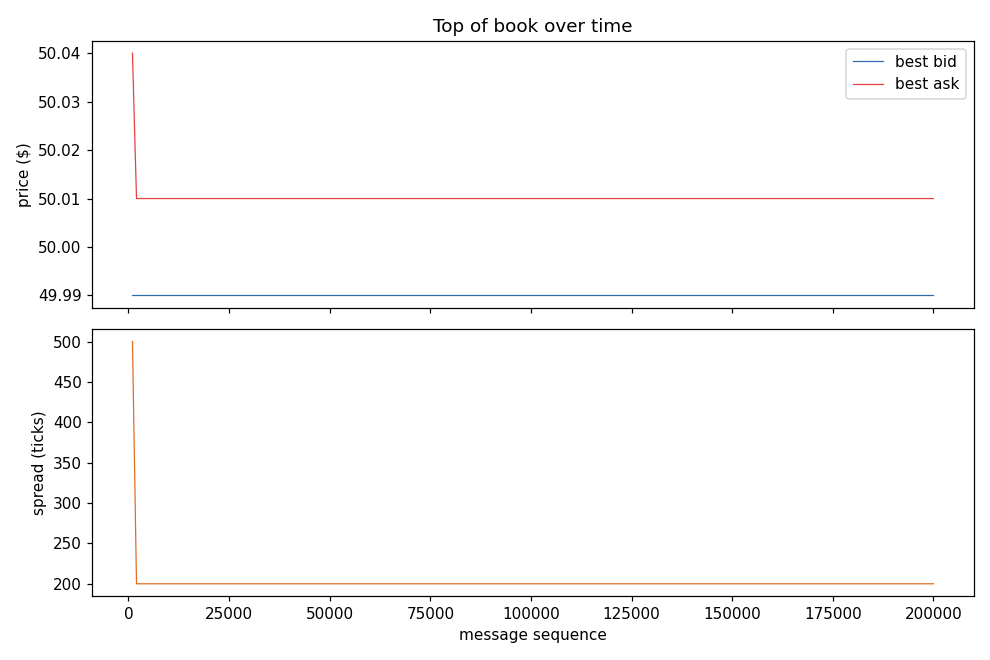
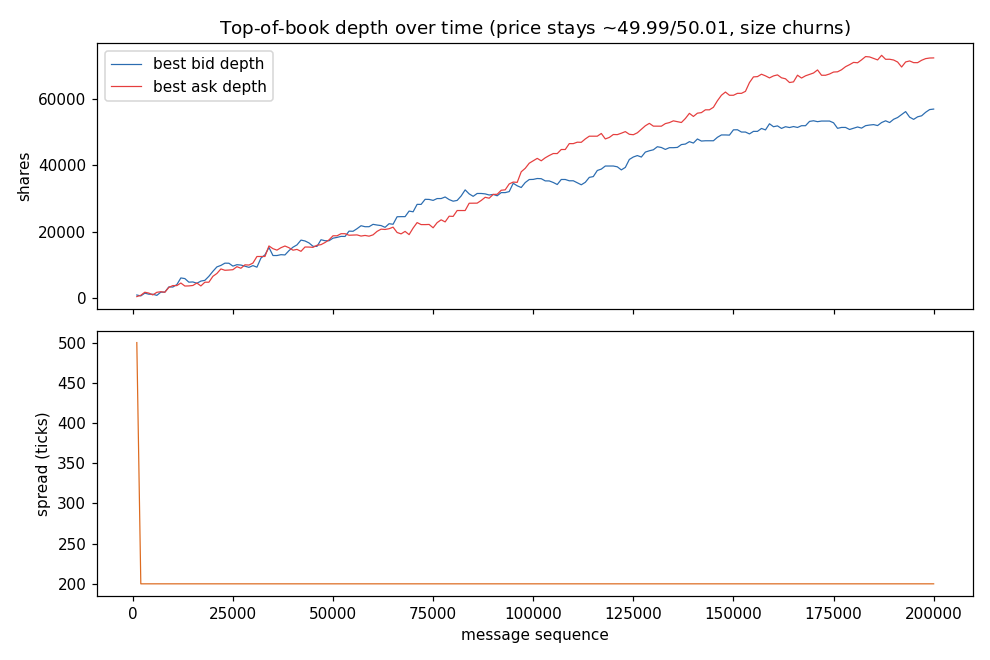
add tooling notes, fix book_depth plot, explain the sw/hw latency gap honestly
TOOLING.md covers the real build toolchain and AI-assisted tooling, with
the two real RTL bugs (tombstone deletion, best-tracker scan race) as the
concrete evidence rather than a bare disclaimer. README gets a TOC and a
Tooling section.

book_depth.png was plotting best bid/ask price, which is flat for the
whole session because the synthetic feed's reference mid doesn't drift,
so the chart looked broken. Replotted as top-of-book depth (shares),
which is what actually moves in this data, with a README note explaining
the distinction.

Also rewrote the software-vs-hardware latency comparison: software's
median is faster than the modeled 344ns hardware number, and that's a
real result with concrete causes (clock speed mismatch, byte-serial
front end, unsynthesized clock target), not something to wave away as
"determinism." What hardware actually buys is p99.9 == p50, not a lower
mean.

General prose pass: dropped em dashes throughout.

diff --git a/analysis/book_depth.py b/analysis/book_depth.py
@@ -1,10 +1,13 @@
 #!/usr/bin/env python3
-"""book_depth.py — visualise top-of-book over time.
+"""book_depth.py — visualise top-of-book depth over time.
 
 Reads book_depth.csv (seq, locate, best_bid, bid_depth, best_ask, ask_depth,
-spread) emitted by orderbook_sw and plots best bid/ask and spread versus message
-sequence for the primary symbol. Prints summary stats and writes a CSV summary
-when matplotlib is unavailable.
+spread) emitted by orderbook_sw and plots best-level share depth and spread
+versus message sequence for the primary symbol. Depth is the field that
+actually moves in the synthetic feed (the generator keeps its reference mid
+fixed, so best_bid/best_ask themselves are close to flat; the resting size at
+the top of book is what churns as orders arrive and get consumed). Prints
+summary stats and writes a CSV summary when matplotlib is unavailable.
 """
 import csv, os, sys, argparse
 
@@ -18,13 +21,15 @@ def main():
         print(f"[book_depth] {path} not found; run orderbook_sw --csv {args.csv}")
         return 0
 
-    seq, bid, ask, spread = [], [], [], []
+    seq, bid, ask, bid_depth, ask_depth, spread = [], [], [], [], [], []
     with open(path) as f:
         for row in csv.DictReader(f):
             try:
                 seq.append(int(row["seq"]))
                 bid.append(int(row["best_bid"]) / 10000.0)
                 ask.append(int(row["best_ask"]) / 10000.0)
+                bid_depth.append(int(row["bid_depth"]))
+                ask_depth.append(int(row["ask_depth"]))
                 spread.append(int(row["spread"]))
             except (KeyError, ValueError):
                 pass
@@ -37,6 +42,8 @@ def main():
     print(f"[book_depth] {len(seq)} snapshots")
     print(f"  bid range:    ${min(bid):.4f} .. ${max(bid):.4f}")
     print(f"  ask range:    ${min(ask):.4f} .. ${max(ask):.4f}")
+    print(f"  bid depth:    {min(bid_depth)} .. {max(bid_depth)} shares")
+    print(f"  ask depth:    {min(ask_depth)} .. {max(ask_depth)} shares")
     print(f"  mean spread:  {avg_spread:.1f} ticks (1 tick = $0.0001)")
 
     try:
@@ -44,9 +51,10 @@ def main():
         matplotlib.use("Agg")
         import matplotlib.pyplot as plt
         fig, (ax1, ax2) = plt.subplots(2, 1, figsize=(9, 6), sharex=True)
-        ax1.plot(seq, bid, color="#2b6cb0", lw=0.8, label="best bid")
-        ax1.plot(seq, ask, color="#e53e3e", lw=0.8, label="best ask")
-        ax1.set_ylabel("price ($)"); ax1.legend(); ax1.set_title("Top of book over time")
+        ax1.plot(seq, bid_depth, color="#2b6cb0", lw=0.8, label="best bid depth")
+        ax1.plot(seq, ask_depth, color="#e53e3e", lw=0.8, label="best ask depth")
+        ax1.set_ylabel("shares"); ax1.legend()
+        ax1.set_title("Top-of-book depth over time (price stays ~$49.99/$50.01, size churns)")
         ax2.plot(seq, spread, color="#dd6b20", lw=0.8)
         ax2.set_ylabel("spread (ticks)"); ax2.set_xlabel("message sequence")
         plt.tight_layout()

diff --git a/docs/DESIGN.md b/docs/DESIGN.md
@@ -7,14 +7,14 @@ Build/run instructions are in [BUILDING.md](BUILDING.md).
 
 An exchange order book is the canonical low-latency problem: a stream of small
 binary messages (adds, cancels, executes, replaces), each of which must update a
-data structure in as little time as possible. HFT firms attack it two ways —
+data structure in as little time as possible. HFT firms attack it two ways:
 aggressively tuned C++ on a CPU, or an FPGA. I wanted to build both against the
 same feed and measure the actual gap, not just repeat the folklore about it.
 
 So there are two implementations of the same book:
 
-- `sw/` — C++17, SIMD everywhere it pays, kernel-bypass-style receiver design
-- `rtl/` — synthesizable SystemVerilog, one byte per clock, everything in SRAM
+- `sw/`: C++17, SIMD everywhere it pays, kernel-bypass-style receiver design
+- `rtl/`: synthesizable SystemVerilog, one byte per clock, everything in SRAM
 
 Both consume the same NASDAQ ITCH 5.0 byte stream and must produce identical
 book state. The RTL is diffed against a `std::map` reference model message by
@@ -23,8 +23,8 @@ message, which is also how both of the real bugs below were caught.
 ## The wire format contract
 
 ITCH 5.0 is a length-prefixed binary format, big-endian everything. The message
-layouts live in exactly one place per language — `sw/parser/itch_messages.hpp`
-and `rtl/ob_pkg.sv` — and the two mirror each other field for field. If they
+layouts live in exactly one place per language (`sw/parser/itch_messages.hpp`
+and `rtl/ob_pkg.sv`), and the two mirror each other field for field. If they
 ever disagree, the end-to-end diff fails immediately, so the contract is
 enforced by test rather than by discipline.
 
@@ -49,7 +49,7 @@ need ref → (price, side, shares) at O(1). Open addressing with linear probing,
 Thomas Wang's mix64 as the hash. Two decisions worth defending:
 
 - *Structure-of-arrays layout.* Keys live in their own contiguous array, so the
-  SIMD probe is one aligned load of 8 (AVX-512) or 4 (AVX2) consecutive keys —
+  SIMD probe is one aligned load of 8 (AVX-512) or 4 (AVX2) consecutive keys,
   no gathers. Values sit in parallel arrays indexed by slot.
 - *Backward-shift deletion* instead of tombstones. On erase, later entries in
   the probe chain shift back to fill the hole. Chains never accumulate dead
@@ -57,7 +57,7 @@ Thomas Wang's mix64 as the hash. Two decisions worth defending:
   differential test against `std::unordered_map` keeps it honest.
 
 **The book** (`sw/book/order_book.hpp`). Price levels are a direct-indexed
-array — price *is* the index — so an update is a load, an add, a store. Best
+array where price *is* the index, so an update is a load, an add, a store. Best
 bid/ask are maintained incrementally; the only expensive case is deleting the
 last shares at the best price, which triggers a vectorized scan toward the next
 non-empty level. `std::map` (the original book, kept as `reference_book.hpp`)
@@ -78,7 +78,7 @@ udp_stripper → itch_framer → itch_decoder → order_ref_table
 ```
 
 One byte per cycle streams through the front end. Byte-swapping costs nothing in
-hardware — you just wire the bytes in the other order. The hash table and price
+hardware, you just wire the bytes in the other order. The hash table and price
 levels are SRAMs; a single book is instantiated (single symbol), and the
 Verilator harness feeds it a single-symbol stream so the reference-model diff is
 exact.
@@ -95,7 +95,7 @@ inserts are allowed to reuse. A test that forces a 24-deep collision chain and
 then deletes out of the middle of it is what caught this.
 
 Tombstones aren't reclaimed in bulk, so an extremely long session would want a
-sweep/rehash eventually — fine at a 64K table for these workloads.
+sweep/rehash eventually, fine at a 64K table for these workloads.
 
 ### Bug 2: the best-tracker handshake race
 
@@ -103,33 +103,64 @@ When a delete empties the best price level, the engine kicks the best tracker to
 scan for the next non-empty level, and waited for `!scanning` to declare the
 message done. But the tracker raises `scanning` one cycle *after* it samples the
 kick. In that window the engine could commit with `best_price` still pointing at
-the just-emptied level — a stale, zero-share best. Classic ready/busy handshake
+the just-emptied level, a stale, zero-share best. Classic ready/busy handshake
 race. The fix (in `book_update_engine.sv`) computes whether a scan is *expected*
 for this message and waits to see it actually start and finish
 (`expect_scan_q` / `scan_seen_q`). `test_book_update` now pins the invariant
 that the best price always has shares.
 
 Both bugs are the kind that only surface when you diff hardware against a
-reference model on thousands of messages — neither showed up in happy-path
+reference model on thousands of messages. Neither showed up in happy-path
 tests.
 
 ## What the comparison actually shows
 
 Software (this machine, AVX2 tier): p50 around 190 ns per message, p99 around
-540 ns, p99.9 around 1.3 µs. The tail is cache misses and OS jitter — nothing
+540 ns, p99.9 around 1.3 µs. The tail is cache misses and OS jitter, nothing
 in the code path varies by 10× on its own.
 
 Hardware: ~86 cycles for an Add, so ~344 ns at the 250 MHz the pipeline is
-modeled at — and it's the *same* number every time. The FPGA story isn't that
-the mean is a bit better; it's that the p99.9 equals the p50. That determinism
-is what firms actually pay for. (Caveat: 250 MHz is a modeled clock, not
-post-place-and-route timing.)
+modeled at, and it's the *same* number every time.
+
+Worth being honest about what's actually being compared here: software's
+*median* (~190 ns) is lower than hardware's number. That's a real result, not
+a bug, and it has three concrete causes, not just "software happened to be
+fast":
+
+1. **Clock speed.** The CPU runs at 4-5 GHz; the pipeline here is modeled at
+   250 MHz, roughly 16-20× slower. A superscalar, out-of-order x86 core is
+   also just very good at hot, predictable, cache-resident integer work
+   (parsing, hashing, array indexing), which is exactly what this hot path is.
+2. **The front end is byte-serial.** `udp_stripper → itch_framer →
+   itch_decoder` accepts one byte per cycle, so a 38-byte Add message spends
+   roughly half of its ~86 total cycles just shifting bytes in before any book
+   logic runs at all. That's a real architectural cost of choosing a simple,
+   easy-to-verify one-byte-wide datapath over a wider parallel ingest path.
+   A design reading 8 or 16 bytes/cycle (realistic off a 100G+ NIC) would cut
+   this component sharply.
+3. **250 MHz is a conservative, unsynthesized target,** not a
+   post-place-and-route ceiling. It was chosen as a number the design would
+   obviously close timing at without backend work. Real FPGA order-book
+   implementations commonly clock past 300-500 MHz; an ASIC would go higher
+   still. Combined with a wider front end, closing most or all of the
+   mean-latency gap is realistic, just not something this project measured.
+
+So the honest framing is: software's best case is genuinely faster than
+hardware's only case, for reasons above, not despite them. What hardware
+actually buys is not a lower mean, it's that the p99.9 *equals* the p50 (no
+cache misses are possible against SRAM with a fixed access latency, no OS
+scheduler, no other processes competing for the core), while software's
+p99.9 is ~7× its own median. That gap matters specifically because a real
+feed's worst moments (bursts, volatility, everyone's software degrading at
+once) are exactly when a fixed, boring latency number becomes a genuine edge
+rather than a nice-to-have. (Caveat, restated: 250 MHz is a modeled clock,
+not post-place-and-route timing.)
 
 ## Limitations
 
 - RTL is single-symbol; the software book handles all symbols. Multi-symbol
   hardware needs per-symbol book banks or a book-state cache.
-- The RTL memories use combinational (async) reads — valid LUTRAM, but a real
+- The RTL memories use combinational (async) reads. Valid LUTRAM, but a real
   FPGA build should re-map them to registered BRAM with an extra pipeline stage.
 - No live UDP test on this machine (no feed, no libxdp); the receiver design
   follows the standard AF_XDP pattern but is exercised only via file replay.

diff --git a/README.md b/README.md
@@ -1,11 +1,21 @@
-# ITCH order book — same feed, C++ and RTL
+# ITCH order book, same feed, C++ and RTL
 
 A NASDAQ ITCH 5.0 limit order book built twice: once as SIMD-tuned C++ chasing
 sub-microsecond software latency, and once as synthesizable SystemVerilog doing
 deterministic nanoseconds. Both consume the same byte stream and must produce
-bit-identical book state — the RTL is diffed against a reference model on every
+bit-identical book state, the RTL is diffed against a reference model on every
 message. The point is to measure the software/hardware latency gap instead of
 just quoting it.
+
+## Contents
+
+- [Quick start](#quick-start)
+- [Results](#results)
+- [What's inside](#whats-inside)
+- [GUI](#gui)
+- [Layout](#layout)
+- [Limitations](#limitations)
+- [Tooling](#tooling)
 
 ## Quick start
 
@@ -17,7 +27,7 @@ make sim                   # RTL Verilator tests
 make bench                 # std::map book vs direct-indexed+SIMD book
 ```
 
-No market data download needed — `make data` generates a byte-exact synthetic
+No market data download needed. `make data` generates a byte-exact synthetic
 ITCH stream that feeds both pipelines. Windows/MSYS2 users: read
 [docs/BUILDING.md](docs/BUILDING.md) first (PATH-ordering trap).
 
@@ -31,15 +41,32 @@ Software, per message (parse + book update, RDTSC, AVX2 on this machine):
 | Trade `P` (no book op) | ~35 ns | ~90 ns | |
 | Replace `U` (worst type) | ~260 ns | ~650 ns | |
 
-Hardware: ~344 ns for an Add at the modeled 250 MHz — every single time. The
-tail *is* the story: software p99.9 is ~7× its p50 (cache misses, OS jitter),
-hardware's p99.9 equals its p50. Determinism is what you're buying with an FPGA.
+Hardware: ~344 ns for an Add at the modeled 250 MHz, every single time. Notice
+software's p50 (~190 ns) actually *beats* that. That's not a knock on the
+hardware, it's a fair result with a real explanation: the CPU is clocked
+16-20× higher (4-5 GHz vs 250 MHz) and is very good at exactly this kind of
+hot, branch-predictable, cache-resident integer work, while the RTL streams
+the message in one byte per cycle through the front end, so a 38-byte Add
+spends roughly half its ~86 cycles just shifting bytes in before book logic
+even starts. 250 MHz is also a conservative, unsynthesized clock target, not
+a placed-and-routed ceiling; a real FPGA build with a wider ingest path would
+close both gaps. So the honest comparison isn't "hardware wins on speed", it's
+that software's *best* case beats hardware's *only* case, but software's
+worst case is ~7× its own median (cache misses, OS jitter) while hardware's
+worst case equals its best case, every time, including during the bursts and
+volatility spikes when everyone else's software also slows down. That
+invariance, not a lower mean, is what an FPGA actually buys here.
 
 ![latency comparison](docs/img/latency_compare.png)
 
 The direct-indexed + SIMD book is about **2×** faster than the `std::map`
 version on the same stream (~90–110 vs ~200–235 ns/msg book-only at 1M
 messages; run-to-run it lands anywhere from 1.5× to 2.6×. `make bench`).
+
+The synthetic feed's reference mid-price doesn't drift, so best bid/ask stay
+pinned near $49.99/$50.01 for the whole session; what actually moves is
+resting size at the top of book, which grows steadily as the generator adds
+far more liquidity than it consumes:
 
 ![book depth](docs/img/book_depth.png)
 
@@ -65,7 +92,7 @@ bit-for-bit diff of the fast book against a `std::map` reference. The RTL suite
 replays 20k+ messages through the Verilated pipeline and diffs full book state
 against the reference model.
 
-Building the RTL against that diff surfaced two genuine hardware bugs — a
+Building the RTL against that diff surfaced two genuine hardware bugs: a
 linear-probe delete that orphaned collision chains (fixed with tombstones) and a
 one-cycle handshake race in the best-price tracker that could commit a stale
 best. Both write-ups are in [docs/DESIGN.md](docs/DESIGN.md); they're the most
@@ -89,7 +116,7 @@ binaries the command line uses, so the numbers match `run_all.sh`.
 
 ```
 sw/        receiver/ parser/ book/ stats/ util/ tests/ + main.cpp
-rtl/       *.sv — the streaming pipeline
+rtl/       *.sv, the streaming pipeline
 sim/       Verilator harness, reference model, RTL tests
 tools/     gen_itch.cpp (synthetic feed), bench.cpp
 gui/       Streamlit dashboard
@@ -102,4 +129,9 @@ docs/      DESIGN.md, BUILDING.md, images
 Single-symbol RTL (software is multi-symbol); async-read behavioral SRAMs
 (re-map to registered BRAM for a real FPGA build); the hardware latency is a
 cycle count at a modeled 250 MHz, not post-P&R timing; 8-byte timestamps per the
-internal format (real ITCH uses 6 — see `data/README.md`).
+internal format (real ITCH uses 6, see `data/README.md`).
+
+## Tooling
+
+Build toolchain, AI-assisted coding, and the two real bugs it surfaced are
+covered in [TOOLING.md](TOOLING.md).

diff --git a/TOOLING.md b/TOOLING.md
@@ -1,0 +1,39 @@
+# Tooling
+
+What actually went into building, verifying, and writing this up.
+
+## Build and verification
+
+- g++ / C++17 for the software side, with `-march=native` picking AVX-512,
+  AVX2, or scalar SIMD paths automatically
+- Verilator 5.x for the RTL track
+- GNU Make and bash, one `run_all.sh` that builds everything, runs both test
+  suites, benchmarks the two software books, and runs the analysis scripts
+- Python with matplotlib for the latency and depth plots
+- Streamlit for the interactive dashboard in `gui/`
+
+Host-specific gotchas (MSYS2 PATH ordering, the broken Perl `verilator`
+wrapper, matplotlib not being on the ucrt64 Python) are in
+[docs/BUILDING.md](docs/BUILDING.md).
+
+## AI-assisted coding
+
+I used Claude Code as a coding tool throughout this project, the way a lot of
+people now pair-program with an LLM. I wrote the spec, ran the build, and
+worked through the hardware bugs myself once the RTL was diffing against the
+reference model on real traffic.
+
+Two real bugs came out of that process. The order-ref hash table originally
+deleted entries by clearing the slot, which is wrong for linear probing since
+it orphans any colliding key stored after it. A 24-deep forced-collision test
+caught it, and I fixed it with tombstone deletion. The other was a one-cycle
+handshake race in the best-price tracker: the engine checked `!scanning` to
+know a rescan had finished, but the tracker only raises `scanning` one cycle
+after sampling the trigger, so the engine could commit a stale, zero-share
+best price in that window. Fixed by tracking whether a scan is expected and
+waiting for it to actually start and finish. Full write-ups are in
+[docs/DESIGN.md](docs/DESIGN.md), they're honestly the most interesting part
+of the project.
+
+Happy to walk through either of those, or anything else in the pipeline, in
+more depth.

diff --git a/docs/BUILDING.md b/docs/BUILDING.md
@@ -2,11 +2,11 @@
 
 ## Requirements
 
-- g++ with C++17 (tested with GCC 15, MSYS2 UCRT64) — the SIMD code compiles
+- g++ with C++17 (tested with GCC 15, MSYS2 UCRT64). The SIMD code compiles
   with `-march=native` and picks AVX-512, AVX2, or scalar paths automatically
 - Verilator 5.x for the RTL track (tested with 5.040)
 - GNU Make, bash
-- Python 3 with matplotlib for the plots (optional — scripts fall back to CSV
+- Python 3 with matplotlib for the plots (optional, scripts fall back to CSV
   summaries without it)
 
 ## Run everything
@@ -29,7 +29,7 @@ make lint    # verilator --lint-only
 ## Test data
 
 There's no NASDAQ sample file checked in (they're large and license-encumbered).
-`make data` generates a byte-exact synthetic ITCH 5.0 stream instead — correct
+`make data` generates a byte-exact synthetic ITCH 5.0 stream instead: correct
 length prefixes, big-endian fields, all message types, and a book that never
 crosses by construction. The same file feeds the C++ and RTL pipelines, which is
 what makes the end-to-end diff meaningful. `data/README.md` covers ingesting a
@@ -41,7 +41,7 @@ there).
 Same two traps as any Verilator project on MSYS2 (`run_all.sh` handles both):
 
 1. `/c/msys64/ucrt64/bin` must be **first** on PATH, or `cc1plus` loads the
-   wrong DLLs and g++ fails silently — exit 1, no error text, no output file.
+   wrong DLLs and g++ fails silently: exit 1, no error text, no output file.
 2. If the Perl `verilator` wrapper dies with `Can't locate Pod/Usage.pm`, call
    the binary directly: `VERILATOR_ROOT=... verilator_bin.exe`.
 
@@ -55,4 +55,4 @@ Every vectorized routine (`sw/util/simd.hpp` and its callers) has AVX-512, AVX2,
 and scalar implementations selected at compile time via `-march=native`. All
 three return identical results and the tests assert the vector paths against the
 scalar one. If you're on a CPU without AVX-512, don't add `-mavx512*` flags by
-hand — the binary will build and then SIGILL at runtime.
+hand, the binary will build and then SIGILL at runtime.

diff --git a/data/README.md b/data/README.md
@@ -7,8 +7,8 @@ supported.
 
 Real ITCH sample files are large and must be downloaded out of band, so the
 project ships a deterministic **synthetic ITCH 5.0 generator** that emits a
-byte-exact stream — correct 2-byte big-endian length prefixes, big-endian
-fields, and the exact body layouts in `sw/parser/itch_messages.hpp` — covering
+byte-exact stream: correct 2-byte big-endian length prefixes, big-endian
+fields, and the exact body layouts in `sw/parser/itch_messages.hpp`, covering
 every message type the book handles (`A F E C X D U P S`).
 
 The generator maintains its own set of live orders, so every Execute / Cancel /